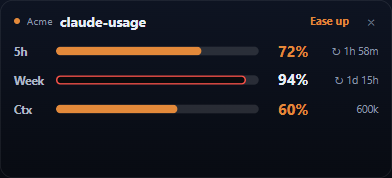
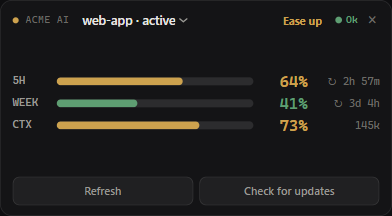
docs: refresh README screenshots for the telemetry-console UI
Replace the old glassy-UI shots with the current graphite/monospace UI:
new widget + minimal HUD bar overlays and the dashboard's Live, All-time,
Status, and Settings tabs; regenerate the tray-icon strip in the muted
palette. Drop the standalone sessions.png (Sessions now show on the Live tab)
and fix stale wording (glass dashboard, translucent bar). All shots use
synthetic, privacy-safe data. Docs-only — no code or version change.

diff --git a/README.md b/README.md
@@ -2,36 +2,52 @@
 
 # Claude Usage Tracker
 
-A small Windows desktop widget that tracks your Claude plan limits — the **5-hour**
-and **weekly** usage windows, the exact numbers the `/usage` command shows — with a
-live always-on-top widget, a glass dashboard, a tray icon, and a toast notification
-every time usage crosses a 20% mark.
+A small Windows desktop app that tracks your Claude plan limits — the **5-hour**
+and **weekly** usage windows, the exact numbers the `/usage` command shows — with
+always-on-top overlays (a mini **widget** and a one-line **HUD bar**), a tabbed
+**dashboard** (Live · All-time · Status · Settings), a live tray icon, and a toast
+notification every time usage crosses a 20% mark.
 
 It reads the OAuth token Claude Code already stores on your machine and calls the
 same endpoint `/usage` uses. **Read-only** — it never modifies your credentials and
 talks to nothing but that one Anthropic endpoint.
 
 <p align="center">
-  <img src="https://raw.githubusercontent.com/paris-paraskevas/claude-usage-tracker/main/docs/widget.png" alt="Always-on-top mini widget" width="420"><br>
-  <em>The always-on-top mini widget (sample data)</em>
+  <img src="https://raw.githubusercontent.com/paris-paraskevas/claude-usage-tracker/main/docs/widget.png" alt="Always-on-top mini widget" width="392"><br>
+  <em>The always-on-top mini <strong>widget</strong> — 5h / weekly / context %, with a session picker, verdict, and status dot (sample data)</em>
 </p>
 
 <p align="center">
-  <img src="https://raw.githubusercontent.com/paris-paraskevas/claude-usage-tracker/main/docs/dashboard.png" alt="Dashboard" width="600"><br>
-  <em>The full dashboard — gauges, live reset countdowns, burn-rate, history, overage credits, and Open Sessions (sample data)</em>
+  <img src="https://raw.githubusercontent.com/paris-paraskevas/claude-usage-tracker/main/docs/bar.png" alt="Minimal one-line HUD bar" width="360"><br>
+  <em>The minimal one-line <strong>HUD bar</strong> — a solid, FPS-counter-style strip; fields and order are configurable (sample data)</em>
 </p>
 
 <p align="center">
-  <img src="https://raw.githubusercontent.com/paris-paraskevas/claude-usage-tracker/main/docs/sessions.png" alt="Open Sessions panel" width="620"><br>
-  <em>Open Sessions — per-project context-window fill % (toggle to Tokens), with active indicators (sample data)</em>
+  <img src="https://raw.githubusercontent.com/paris-paraskevas/claude-usage-tracker/main/docs/dashboard.png" alt="Dashboard — Live tab" width="760"><br>
+  <em>The dashboard's <strong>Live</strong> tab — instrument-dial gauges, reset countdowns, a burn-rate projection, a usage-history sparkline, overage credits, scoped weekly limits, and Sessions (sample data)</em>
+</p>
+
+<p align="center">
+  <img src="https://raw.githubusercontent.com/paris-paraskevas/claude-usage-tracker/main/docs/alltime.png" alt="Dashboard — All-time tab" width="760"><br>
+  <em>The <strong>All-time</strong> tab — sessions, messages, total tokens, active days, streaks, peak hour, favorite model, a contribution heatmap, and by-project totals, with a 7d / 30d / All toggle (sample data)</em>
+</p>
+
+<p align="center">
+  <img src="https://raw.githubusercontent.com/paris-paraskevas/claude-usage-tracker/main/docs/status.png" alt="Dashboard — Status tab" width="760"><br>
+  <em>The <strong>Status</strong> tab — Anthropic service status (Ok / Errors / Down) with every component listed (sample data)</em>
+</p>
+
+<p align="center">
+  <img src="https://raw.githubusercontent.com/paris-paraskevas/claude-usage-tracker/main/docs/settings.png" alt="Dashboard — Settings tab" width="760"><br>
+  <em>The <strong>Settings</strong> tab — show/hide the overlays, choose the HUD-bar fields, and pick which status components drive the indicator (sample data)</em>
 </p>
 
 ## Features
 
 - **Always-on-top overlays** — a frameless, draggable, **resizable** mini **widget** (5h,
   weekly, **context %**) with Refresh / Check-for-updates buttons and a **dropdown** to pick
-  which session's context to track; **and** a **minimal HUD bar** — a translucent, one-line,
-  FPS-counter-style strip (`dir  Ctx: 45%  5h: 11%  7d: 3%`) whose controls appear on hover.
+  which session's context to track; **and** a **minimal HUD bar** — a solid, one-line,
+  FPS-counter-style strip (`dir  Ctx: 73%  5h: 64%  7d: 41%  ● Ok`) whose controls appear on hover.
   Toggle either from the tray; they can be shown together. Drag any edge or corner to resize; size is remembered.
 - **Full dashboard** — animated ring gauges, live reset countdowns, a **burn-rate /
   time-to-limit projection** ("≈7%/h · hits 100% in ~1h 10m"), a usage history